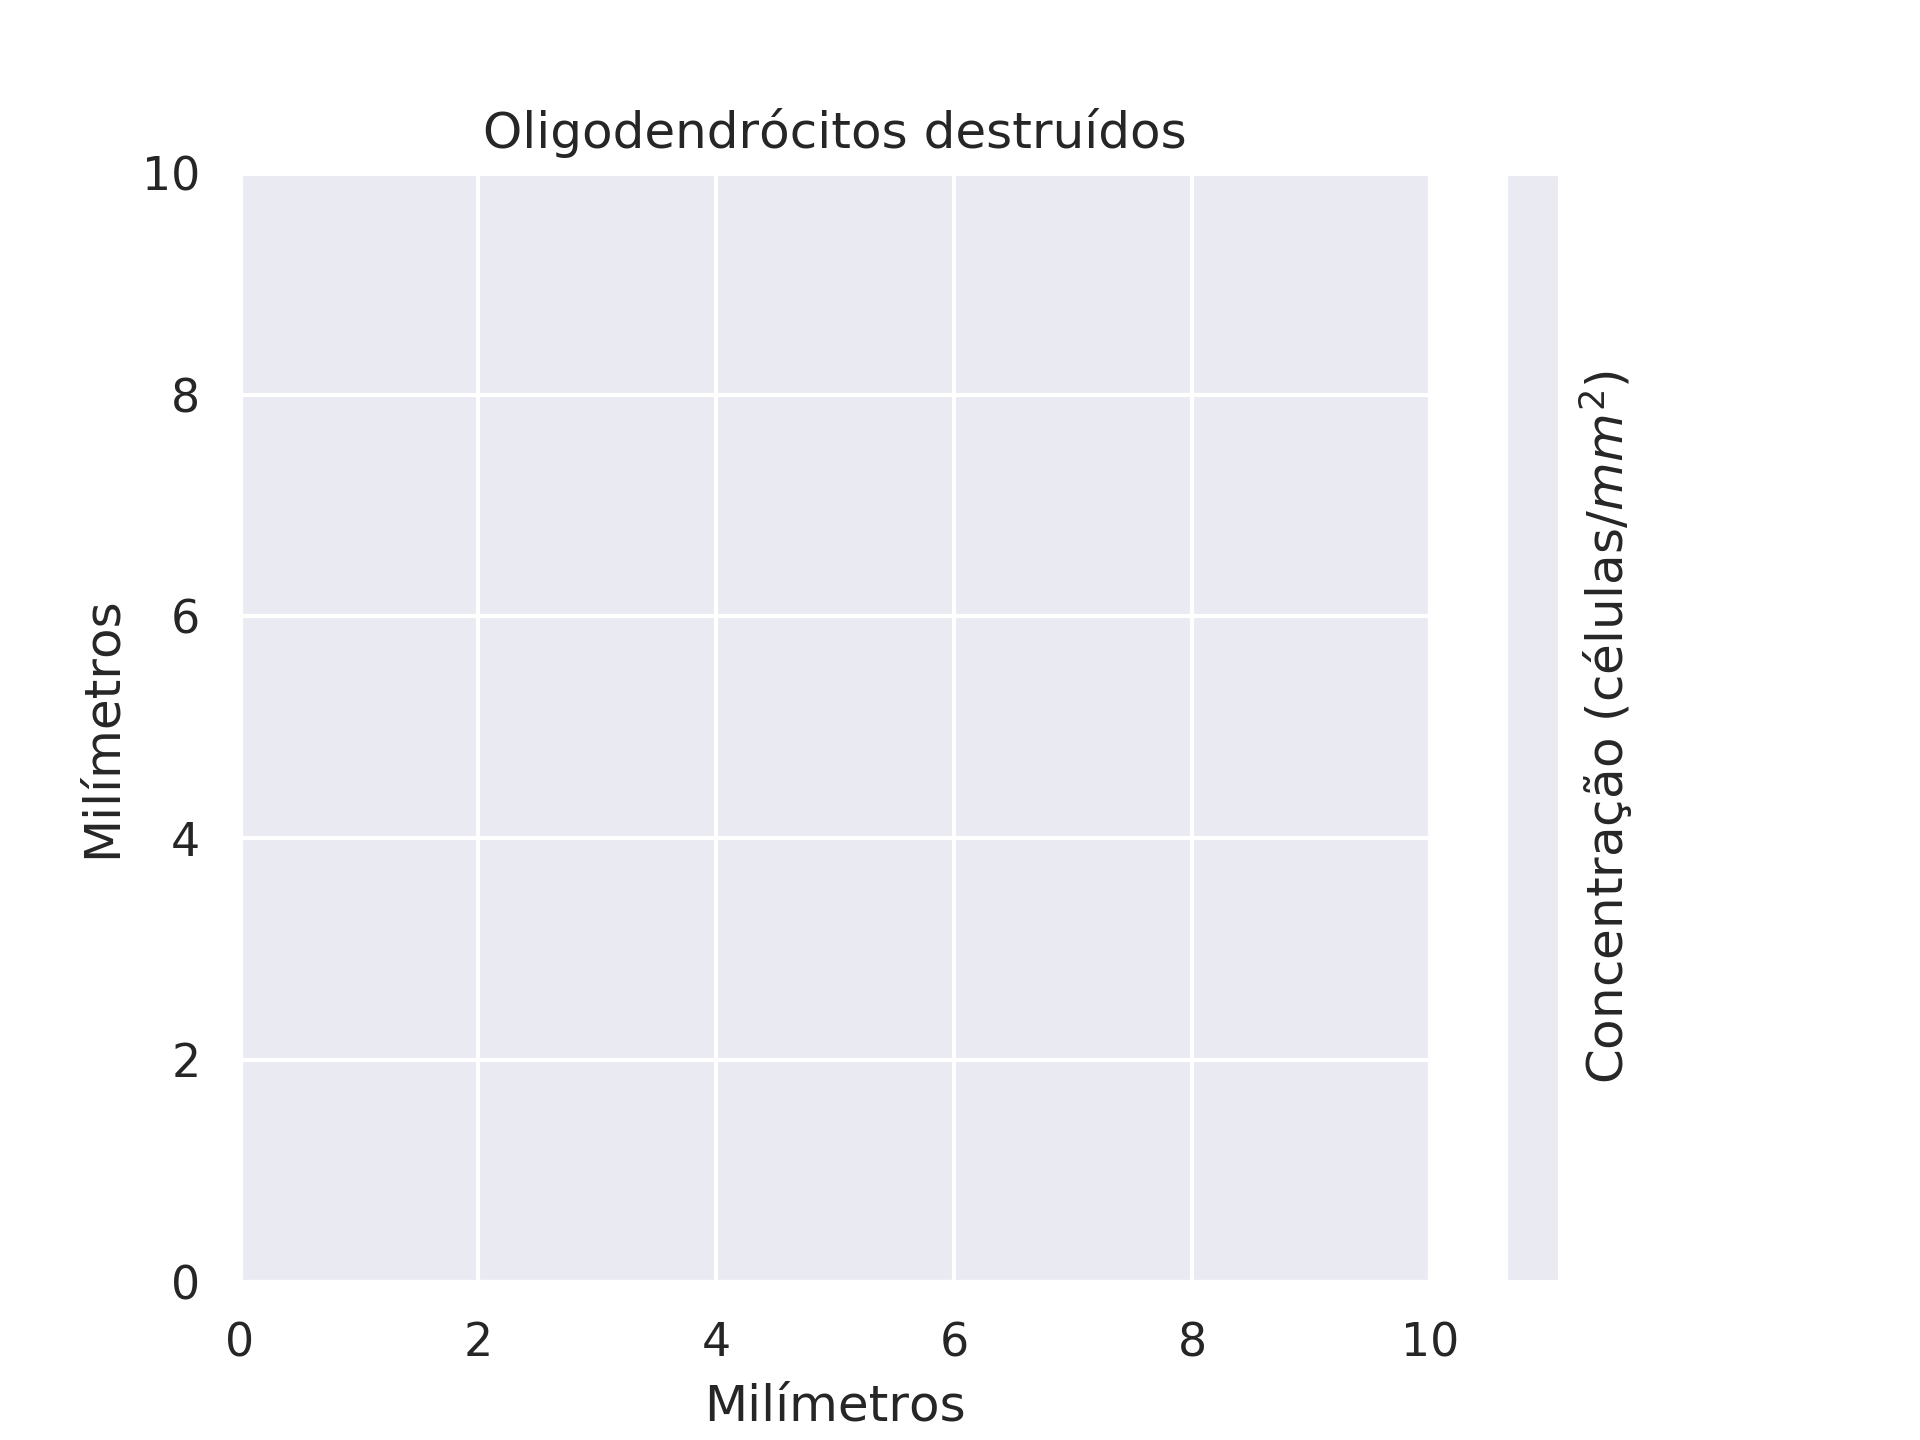
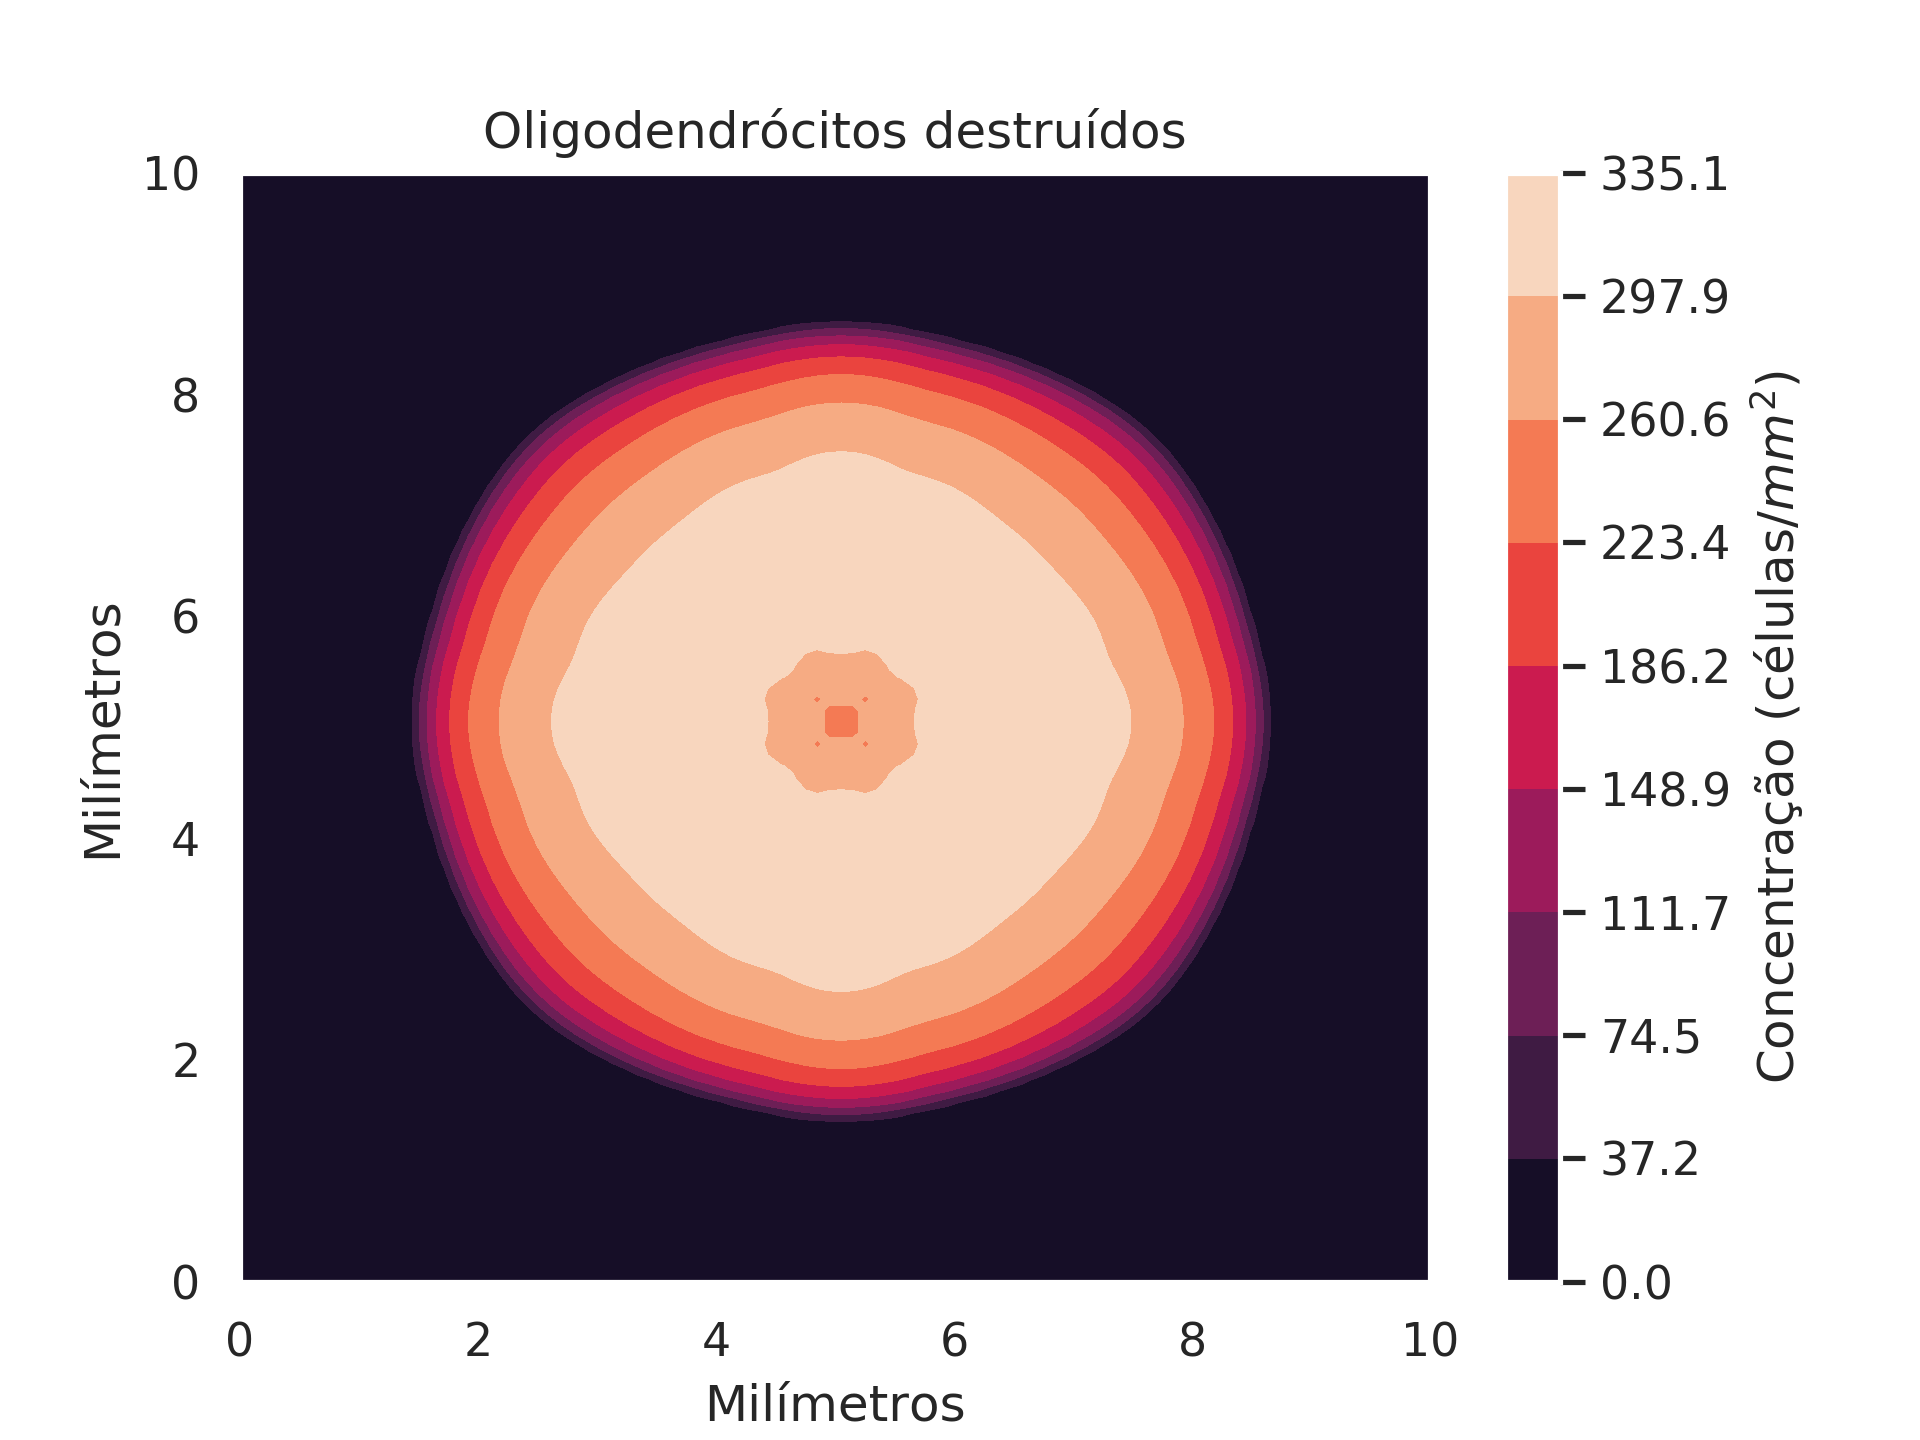
teste sem anticorpos e quimio nas tke roda 1 dia

diff --git a/src/modelo_populações_completo.py b/src/modelo_populações_completo.py
@@ -208,7 +208,7 @@ printMesh(0,mic_anterior, "microglia")
 printMesh(0,dendritica_conv_anterior, "dc")
 printMesh(0,dendritica_ativ_anterior, "da")
 printMesh(0,t_cito_anterior, "tke")
-printMesh(0,anticorpo_anterior, "anticorpo")
+# printMesh(0,anticorpo_anterior, "anticorpo")
 
 #Inicio da contagem do tempo
 tic = time.perf_counter()
@@ -219,7 +219,7 @@ for k in range(1,steps):
     TL_c_atual = linfonodo_eqs[1] + h_t*dy[1]
     TL_h_atual = linfonodo_eqs[2] + h_t*dy[2]
     B_atual = linfonodo_eqs[3] + h_t*dy[3]
-    FL_atual = linfonodo_eqs[4] + h_t*dy[4]
+    FL_atual = linfonodo_eqs[4]# + h_t*dy[4]
     
     for i in range(tam):
         for j in range(tam):
@@ -227,7 +227,7 @@ for k in range(1,steps):
             microglia = mic_anterior[i][j]
             dc = dendritica_conv_anterior[i][j]
             da = dendritica_ativ_anterior[i][j]
-            anticorpo = anticorpo_anterior[i][j]
+            # anticorpo = anticorpo_anterior[i][j]
             t_cito = t_cito_anterior[i][j]
             
             # condição de contorno de Neumman microglia
@@ -261,10 +261,10 @@ for k in range(1,steps):
             t_cito_ijm = t_cito_anterior[i][j-1] if j != 0 else t_cito - 2*h_x*bc_neumann_esquerda
 
             # condição de contorno de Neumman anticorpos
-            f_ipj = anticorpo_anterior[i+1][j] if i != tam-1 else anticorpo - 2*h_x*bc_neumann_baixo
-            f_imj = anticorpo_anterior[i-1][j] if i != 0 else anticorpo - 2*h_x*bc_neumann_cima
-            f_ijp = anticorpo_anterior[i][j+1] if j != tam-1 else anticorpo - 2*h_x*bc_neumann_direita
-            f_ijm = anticorpo_anterior[i][j-1] if j != 0 else anticorpo - 2*h_x*bc_neumann_esquerda            
+            # f_ipj = anticorpo_anterior[i+1][j] if i != tam-1 else anticorpo - 2*h_x*bc_neumann_baixo
+            # f_imj = anticorpo_anterior[i-1][j] if i != 0 else anticorpo - 2*h_x*bc_neumann_cima
+            # f_ijp = anticorpo_anterior[i][j+1] if j != tam-1 else anticorpo - 2*h_x*bc_neumann_direita
+            # f_ijm = anticorpo_anterior[i][j-1] if j != 0 else anticorpo - 2*h_x*bc_neumann_esquerda            
 
             #Dependendo do gradiente dos ODCs vou fazer upwind ou downwind no eixo i ou eixo j
 
@@ -273,7 +273,7 @@ for k in range(1,steps):
             gradiente_odc_i = (olide_ipj - olide_imj)/(2*h_x)
             gradiente_odc_j = (olide_ijp - olide_ijm)/(2*h_x)
 
-            if gradiente_odc_i > 0:#@@@@ TODO Depois atualizar o slide e fazer teste com quimiotaxia nas t_cito. Fazer teste sem anticorpo. Depois voltar para quando so tinha DC-mic-ods-DA
+            if gradiente_odc_i > 0:#@@@@ TODO Fazer teste sem anticorpo. Depois voltar para quando so tinha DC-mic-ods-DA
                 gradiente_m_i = gradiente(microglia, mic_imj, parameters["mic_media"])/h_x
                 gradiente_dc_i = gradiente(dc, dc_imj,parameters["dc_media"])/h_x
                 gradiente_t_i = gradiente(t_cito, t_cito_imj, parameters["t_cito_media"])/h_x
@@ -298,23 +298,23 @@ for k in range(1,steps):
             mic_atual[i][j] = microglia + h_t*(difusao_mic + reacao_mic - quimiotaxia_mic)
 
             #T citotóxica
-            quimiotaxia_t_cito = parameters["chi"]*(gradiente_odc_i*gradiente_t_i + gradiente_odc_j*gradiente_t_j)
+            quimiotaxia_t_cito = 0#parameters["chi"]*(gradiente_odc_i*gradiente_t_i + gradiente_odc_j*gradiente_t_j)
             difusao_t_cito = parameters["d_t_cit"]*(t_cito_ijm + t_cito_ijp - 4*t_cito + t_cito_imj + t_cito_ipj)/h_x**2
             migracao_t_cito = theta_BV[i][j]*parameters["gamma_T"]*(TL_c_atual - t_cito)
             
             t_cito_atual[i][j] = t_cito + h_t*(difusao_t_cito - quimiotaxia_t_cito + migracao_t_cito)
 
             #Oligodendrocitos destruidos 
-            fag_mic_ant = parameters["lamb_f_m"]*anticorpo
+            fag_mic_ant = 0#parameters["lamb_f_m"]*anticorpo
             apoptose_tke = parameters["r_t"]*f_func(t_cito, parameters["t_cito_media"])*(parameters["odc_media"] - oligo_destr)
             olide_atual[i][j] = oligo_destr + h_t*((parameters["r_m"] + fag_mic_ant)*f_func(microglia, mic_media)*(parameters["odc_media"] - oligo_destr) + apoptose_tke)
 
             #Anticorpo
-            difusao_anticorpo = parameters["d_anti"]*(f_ipj + f_imj - 4*anticorpo + f_ijp + f_ijm)
-            reacao_anticorpo = parameters["lamb_f_m"]*anticorpo*(parameters["odc_media"] - oligo_destr)*f_func(microglia, mic_media)
-            migracao_anticorpo = theta_BV[i][j]*parameters["gamma_F"]*(FL_atual - anticorpo)
+            #difusao_anticorpo = parameters["d_anti"]*(f_ipj + f_imj - 4*anticorpo + f_ijp + f_ijm)
+            #reacao_anticorpo = parameters["lamb_f_m"]*anticorpo*(parameters["odc_media"] - oligo_destr)*f_func(microglia, mic_media)
+            #migracao_anticorpo = theta_BV[i][j]*parameters["gamma_F"]*(FL_atual - anticorpo)
 
-            anticorpo_atual[i][j] = anticorpo + h_t*(difusao_anticorpo - reacao_anticorpo + migracao_anticorpo)
+            #anticorpo_atual[i][j] = anticorpo + h_t*(difusao_anticorpo - reacao_anticorpo + migracao_anticorpo)
 
             #DC convencional
             quimiotaxia_dc = 0# parameters["chi"]*(gradiente_odc_i*gradiente_dc_i + gradiente_odc_j*gradiente_dc_j)
@@ -337,8 +337,8 @@ for k in range(1,steps):
                 print("Tempo do Erro: " + str(k*h_t) + " - Variavel dc: " + str(dc))
             if t_cito < 0:
                 print("Tempo do Erro: " + str(k*h_t) + " - Variavel t_cito: " + str(t_cito))
-            if anticorpo < 0:
-                print("Tempo do Erro: " + str(k*h_t) + " - Variavel anticorpo: " + str(anticorpo))
+            # if anticorpo < 0:
+            #     print("Tempo do Erro: " + str(k*h_t) + " - Variavel anticorpo: " + str(anticorpo))
             if oligo_destr < 0:
                 print("Tempo do Erro: " + str(k*h_t) + " - Variavel oligo_destr: " + str(oligo_destr))
             
@@ -380,7 +380,7 @@ for k in range(1,steps):
         printMesh(k,dendritica_conv_anterior, "dc")
         printMesh(k,dendritica_ativ_anterior, "da")
         printMesh(k,t_cito_anterior, "tke")
-        printMesh(k,anticorpo_anterior, "anticorpo")
+        # printMesh(k,anticorpo_anterior, "anticorpo")
         print("Tempo: "+ str(k*h_t))
 
 #Fim da contagem do tempo
@@ -421,10 +421,10 @@ plt.ylabel("Concentração (células/$mm^2$)")
 plt.savefig('../results/b_cell_linfonodo.png', dpi = 300)
 plt.clf()
 
-plt.plot(t,FL_vetor)
-plt.title("Anticorpos no linfonodo")
-plt.xlabel("Tempo (horas)")
-plt.ylabel("Concentração (células/$mm^2$)")
-plt.savefig('../results/anticorpo_linfonodo.png', dpi = 300)
-plt.clf()
+# plt.plot(t,FL_vetor)
+# plt.title("Anticorpos no linfonodo")
+# plt.xlabel("Tempo (horas)")
+# plt.ylabel("Concentração (células/$mm^2$)")
+# plt.savefig('../results/anticorpo_linfonodo.png', dpi = 300)
+# plt.clf()
 
